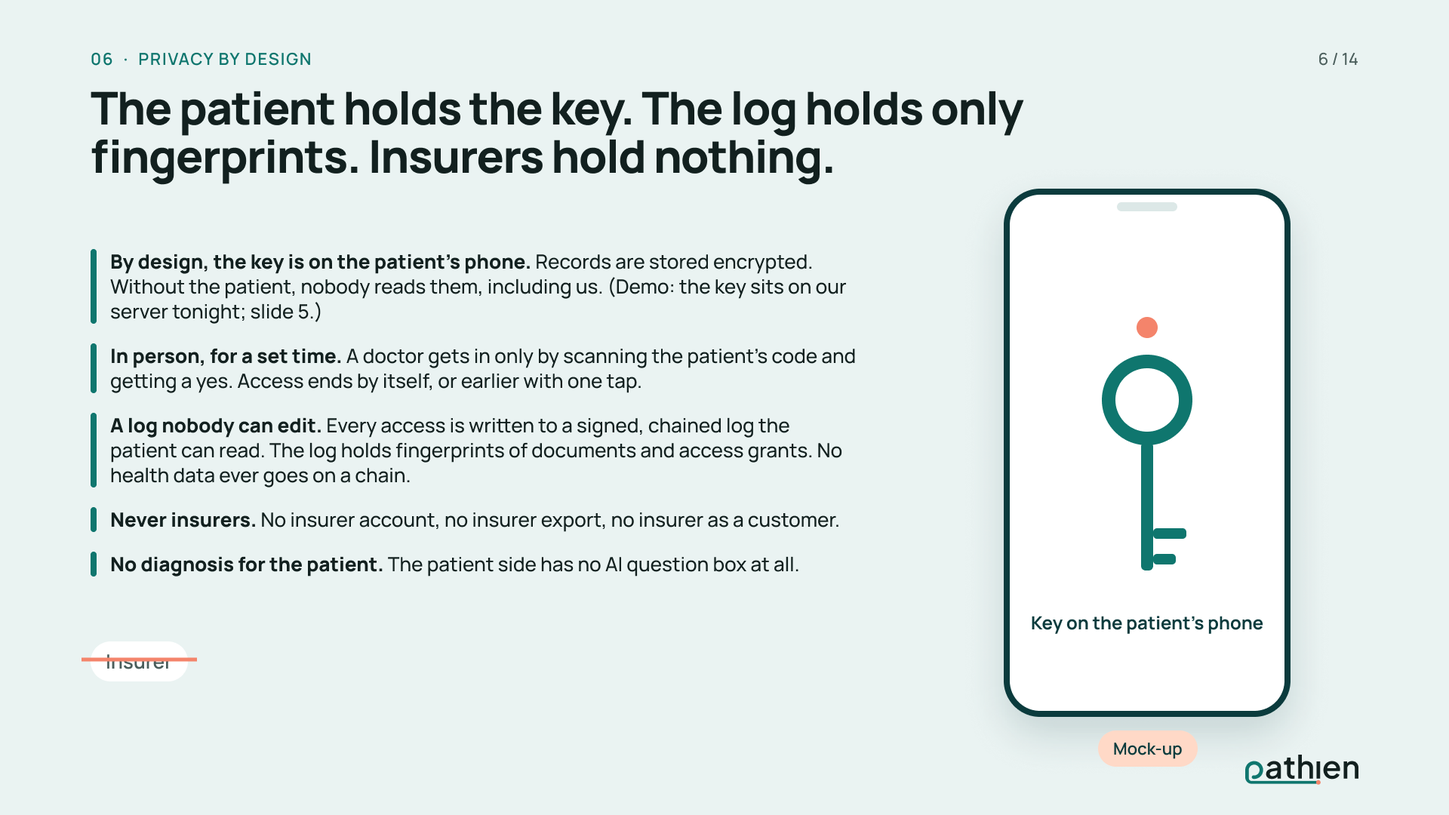
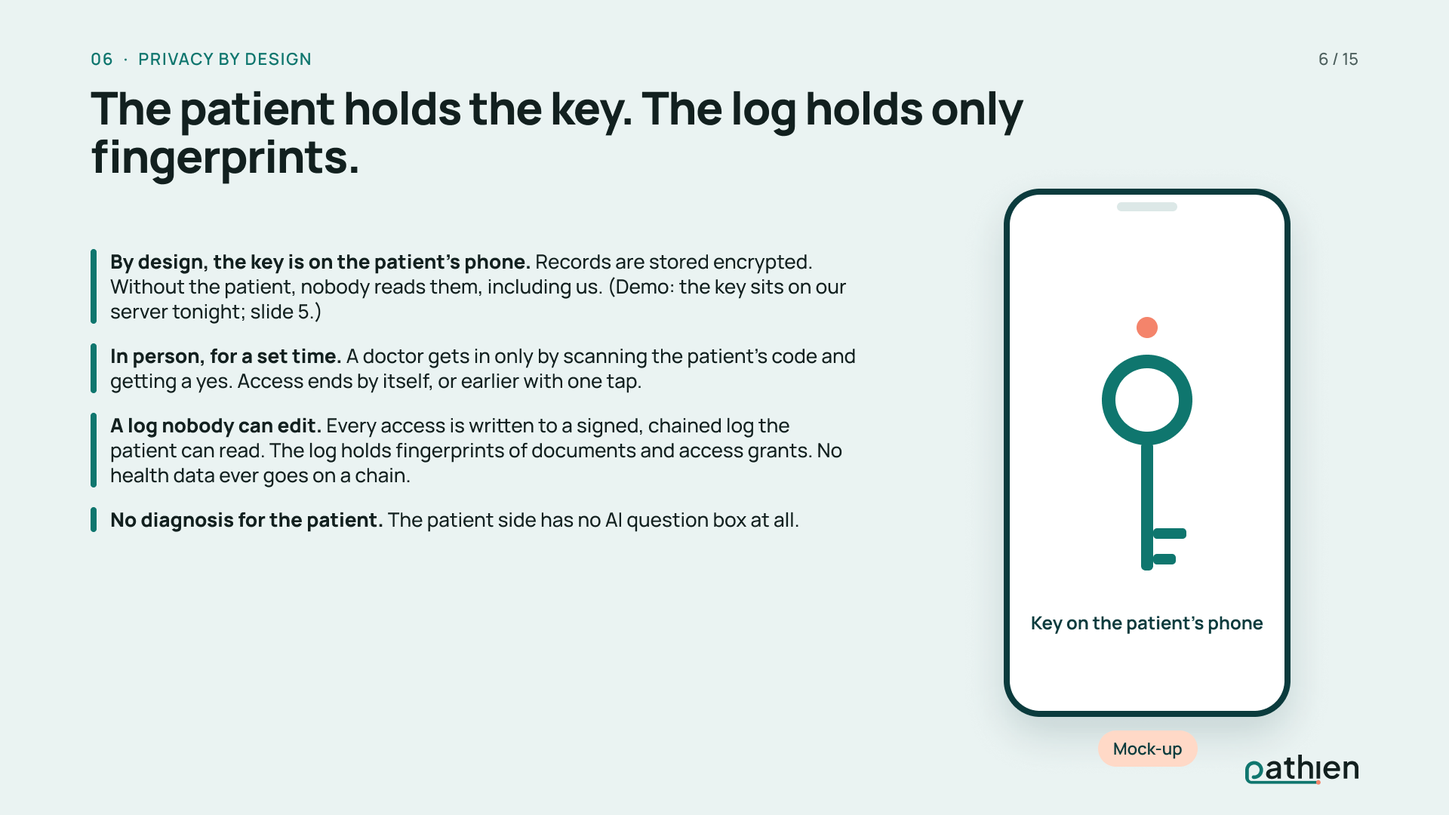
fix(landing,deck): drop every insurer mention (MIN-4503, MIN-4462) [Lane A] (#75)
* fix(landing,deck): drop every insurer mention (deck v3.4)

Refs MIN-4503, MIN-4462

* docs(deck): re-shot Figma slides 6, 10, 11, 13 without insurer mentions

Pix's re-shot slide images for deck v3.4. Refs MIN-4503, MIN-4462.

---------

diff --git a/landing/src/deck/slides.ts b/landing/src/deck/slides.ts
@@ -22,7 +22,7 @@ const N: Record<string, string[]> = {
     "(Run the demo. If a step fails, switch to the screenshot version and narrate it; do not retry on stage.)"
   ],
   "6": [
-    "We designed privacy in from the first line. The key lives on the patient's device. A doctor gets in only face to face, only with a yes, and only for a set time. Every access goes into a log the patient can read and nobody can edit; the log holds fingerprints, never health data. And insurers never get in. Not as readers, not as buyers. That is a product rule, not a setting."
+    "We designed privacy in from the first line. The key lives on the patient's device. A doctor gets in only face to face, only with a yes, and only for a set time. Every access goes into a log the patient can read and nobody can edit; the log holds fingerprints, never health data. Those are product rules, not settings."
   ],
   "6b": [
     "Some people will not want their record on anyone's server, ours included. For them we are designing Pathien Vault: a small device they buy once, holding the whole record at home. The doctor still gets in by the code, for a set time. Pathien's own encryption runs on the device, so nothing sits in the cloud. It is a concept, not built yet, and an option, not the business."
@@ -37,7 +37,7 @@ const N: Record<string, string[]> = {
     "Epic summarises what is inside one hospital. National apps like MyHealth hold public lab results inside one country, and we complement them. ChatGPT Health and symptom checkers talk to the patient, from whatever the patient types in. OpenEvidence answers doctors from the literature, not from this patient. We sit where none of them sits: the record the patient carries across every provider and border, with an assistant that answers only the doctor, and shows its source."
   ],
   "10": [
-    "The patient is free. Insurers are excluded, by design. The first buyer is the hospital that treats patients from abroad: their records arrive in other languages, on paper, or not at all, and the hospital already asks for them before the trip. Clinic chains pay per doctor seat. Rare-disease networks are our free pilots. Later, national agencies. Research use, if ever, is opt-in and never a data sale."
+    "The patient is free. The first buyer is the hospital that treats patients from abroad: their records arrive in other languages, on paper, or not at all, and the hospital already asks for them before the trip. Clinic chains pay per doctor seat. Rare-disease networks are our free pilots. Later, national agencies. Research use, if ever, is opt-in and never a data sale."
   ],
   "11": [
     "How do we earn? Not from diagnoses: we never make one. Hospitals pay for the complete history in front of their doctors. An international-patient department pays per case; a clinic chain pays per doctor seat. On our assumptions, year three is between about half a million and five million euros. Compare that with slide 8: better records could save four to seventy-five million a year on tests, in Greece alone. Our customers pay a small share of what the system saves. Every price here is an assumption, and the pilots exist to test it."
@@ -169,16 +169,15 @@ export const slides: Slide[] = [
   },
   {
     id: '6', template: 'statement', theme: 'mist', no: '06', kicker: 'Privacy by design', notes: N['6'],
-    headline: 'The patient holds the key. The log holds only fingerprints. Insurers hold nothing.',
+    headline: 'The patient holds the key. The log holds only fingerprints.',
     pointStyle: 'bar',
     points: [
       { text: "**By design, the key is on the patient's phone.** Records are stored encrypted. Without the patient, nobody reads them, including us. (Demo: the key sits on our server tonight; slide 5.)" },
       { text: "**In person, for a set time.** A doctor gets in only by scanning the patient's code and getting a yes. Access ends by itself, or earlier with one tap." },
       { text: '**A log nobody can edit.** Every access is written to a signed, chained log the patient can read. The log holds fingerprints of documents and access grants. No health data ever goes on a chain.' },
-      { text: '**Never insurers.** No insurer account, no insurer export, no insurer as a customer.' },
       { text: '**No diagnosis for the patient.** The patient side has no AI question box at all.' },
     ],
-    side: { kind: 'phone', caption: "Key on the patient's phone", tag: 'Mock-up', crossed: 'Insurer' },
+    side: { kind: 'phone', caption: "Key on the patient's phone", tag: 'Mock-up' },
   },
   {
     id: '6b', counter: '6b', template: 'hero', theme: 'air', kicker: 'Concept · not built', notes: N['6b'],
@@ -251,7 +250,7 @@ export const slides: Slide[] = [
   {
     id: '10', template: 'table', theme: 'air', no: '10', kicker: 'Business model, who pays', notes: N['10'],
     footer: 'Models are hypotheses for pilots to test. Prices and volumes on slide 11 are assumptions.',
-    headline: 'The patient never pays. The insurer never sees. Hospitals pay for a better first decision and fewer repeated tests.',
+    headline: 'The patient never pays. Hospitals pay for a better first decision and fewer repeated tests.',
     cols: '170px 520px 600px 1fr',
     head: ['When', 'Who pays', 'For what', 'Model (to test in pilots)'],
     rows: [
@@ -260,7 +259,6 @@ export const slides: Slide[] = [
       { cells: ['Year 1', '**Rare-disease networks**', 'A pilot where possible matches matter most', '**Free pilot, grant-funded**'] },
       { cells: ['Year 1', '**Lab networks**', 'Results the patient carries, marked "Verified by source"', '**Partnership**'] },
       { cells: ['Year 2+', '**National health-data agencies**', 'A patient-held layer next to the national record', '**Tender, sandbox**'] },
-      { cells: ['Never', 'Insurers', '', 'Excluded by design'], emphasis: 'muted' },
     ],
   },
   {
@@ -285,7 +283,7 @@ export const slides: Slide[] = [
         { number: '€0.56M', label: 'conservative · assumption' },
         { number: '€4.85M', label: 'upside · assumption' },
       ],
-      note: 'Not counted: rare-disease pilots (free, grant-funded), national agencies (tenders, year 2+), research use (later, consent-gated, never a data sale), insurers (never).',
+      note: 'Not counted: rare-disease pilots (free, grant-funded), national agencies (tenders, year 2+), research use (later, consent-gated, never a data sale).',
     },
     strip: [
       { caption: 'Tests, Greece (slide 8 funnel)', value: '€4M to €75M a year', tag: 'our estimate' },
@@ -318,7 +316,7 @@ export const slides: Slide[] = [
   },
   {
     id: '13', template: 'steps', variant: 'ascend', theme: 'air', no: '13', kicker: 'Regulatory path', notes: N['13'],
-    footer: 'Every step keeps the same rules: no diagnosis to patients, no health data on a chain, no insurers.',
+    footer: 'Every step keeps the same rules: no diagnosis to patients, no health data on a chain.',
     headline: 'The record ships first. The assistant ships certified. A plan, not a risk.',
     steps: [
       { title: '1. The record', ships: 'Photo to history, identity match, handshake, cited search, symptom diary', applies: '**GDPR** (EU) and **HIPAA** (US): health data, explicit consent, impact assessment. Software that only stores, retrieves and shares is generally not a medical device.', badges: ['GDPR', 'HIPAA'] },

diff --git a/landing/src/App.tsx b/landing/src/App.tsx
@@ -30,7 +30,7 @@ const tech = [
   ['Access that expires.', 'Time-limited access is enforced in the database.'],
   ['A log you can read.', 'Signed, hash-chained, and readable by the patient.']
 ];
-const promises = ['Answers are cited and checked.', 'No AI interpretation for patients.', 'You see every access.', 'Insurers never see records.'];
+const promises = ['Answers are cited and checked.', 'No AI interpretation for patients.', 'You see every access.'];
 const future = ['the key on your phone, so we cannot read records at rest.', "the model sees one request's facts, without your name.", 'records verified by the lab that issued them.'];
 
 const Check = () => (

diff --git a/landing/src/deck/types.ts b/landing/src/deck/types.ts
@@ -73,7 +73,7 @@ export type StatementSide =
       clock: { when: string; what: string }[];
     }
   | { kind: 'notice'; tag: DemoTag; blocks: { label: string; text: string }[] }
-  | { kind: 'phone'; caption: string; tag: DemoTag; crossed: string }
+  | { kind: 'phone'; caption: string; tag: DemoTag; crossed?: string }
   | { kind: 'matches'; pattern: { title: string; sub: string }; optIn: string; tag: DemoTag; contact: string };
 
 export interface StatementSlide extends SlideBase {

diff --git a/landing/src/deck/templates/Statement.tsx b/landing/src/deck/templates/Statement.tsx
@@ -58,7 +58,7 @@ function Side({ side, callout }: { side: StatementSide; callout?: StatementSlide
             <p>{rich(side.caption)}</p>
           </div>
           <Tag>{side.tag}</Tag>
-          <span className="crossed-chip">{side.crossed}</span>
+          {side.crossed && <span className="crossed-chip">{side.crossed}</span>}
         </aside>
       );
     case 'matches': {

diff --git a/docs/deck/deck-content.md b/docs/deck/deck-content.md
@@ -3,18 +3,18 @@
 | | |
 |---|---|
 | **Owner** | Anna Lytica (Marketing), MIN-4429. Deck story: CEO (MIN-4425). Design: Pix (MIN-4428), next. |
-| **Version** | **v3.3, 14 Nov 2026** (MIN-4503: slide 6b, the "Concept render" tag removed and the encryption point added; founder: "remove the concept render -> and mention that this device has our own encrypted software for the data so they are not in the cloud"; the eyebrow "Concept · not built" stays). v3.2, 14 Nov 2026 (MIN-4503: new slide 6b, Pathien Vault, a concept device for patients who want maximum privacy; founder: "what if someone that want's his privacy can buy our device that can hold his data. Anna and pix work on this and add one slide with a very super elegant image with our device that looks very premioum"; no other slide renumbered). v3.1, 14 Nov 2026 (MIN-4503: team and ask from the CEO plan v2, `docs/business/team-and-funding-plan.md` §7; slide 14 replaced, slide 15 new; founder: "put it in the deck when ready"). v3, 14 Nov 2026 (MIN-4503: name Pathien; new slide 11, revenue years 1 to 3, on the founder's ask "the numbers of how many money we can earn" and "Yes, update to v3"; Appendix A's SOM retired for the bottom-up line; demo slides say what is real and what is synthetic). v2, 14 Nov 2026 (MIN-4503: reframed on the founder's two points, "Dr Google" and better doctor decisions; numbers from `pitch-numbers-2026-11-14.md` and `treg-findings-2026-11-14.md`). v1, 13 Nov 2026. |
+| **Version** | **v3.4, 14 Nov 2026** (MIN-4462: every insurer mention removed from slides 6, 6b, 10, 11, 13 and both scripts; founder: "remove the never insurers -> not sure about this", then "Drop every insurer mention"; the internal data rule is unchanged). v3.3, 14 Nov 2026 (MIN-4503: slide 6b, the "Concept render" tag removed and the encryption point added; founder: "remove the concept render -> and mention that this device has our own encrypted software for the data so they are not in the cloud"; the eyebrow "Concept · not built" stays). v3.2, 14 Nov 2026 (MIN-4503: new slide 6b, Pathien Vault, a concept device for patients who want maximum privacy; founder: "what if someone that want's his privacy can buy our device that can hold his data. Anna and pix work on this and add one slide with a very super elegant image with our device that looks very premioum"; no other slide renumbered). v3.1, 14 Nov 2026 (MIN-4503: team and ask from the CEO plan v2, `docs/business/team-and-funding-plan.md` §7; slide 14 replaced, slide 15 new; founder: "put it in the deck when ready"). v3, 14 Nov 2026 (MIN-4503: name Pathien; new slide 11, revenue years 1 to 3, on the founder's ask "the numbers of how many money we can earn" and "Yes, update to v3"; Appendix A's SOM retired for the bottom-up line; demo slides say what is real and what is synthetic). v2, 14 Nov 2026 (MIN-4503: reframed on the founder's two points, "Dr Google" and better doctor decisions; numbers from `pitch-numbers-2026-11-14.md` and `treg-findings-2026-11-14.md`). v1, 13 Nov 2026. |
 | **Event** | Gen AI Summit Hackathon, Athens LifeTech Park, Biotech & AI track |
 | **Market** | Global. Founder: "Dont focus on the greek market. we need to focus on global market" |
 | **Sources** | Only `docs/research/` (Sales). Each number carries a source ID from the table at the end (S1 to S22; S21 and S22, added in v3.2, are retail price anchors for slide 6b found by Marketing, not by Sales) and its status from the research: **verified**, **secondary**, or **assumption**. Nothing from the research's "Do not put on a slide" list is used. |
-| **Skills** | c-level-skills:board-deck-builder, marketing-strategy-pmm, copywriting, copy-editing, content-humanizer, competitor-alternatives (v1); marketing-strategy-pmm, copywriting, copy-editing, content-humanizer, brand-review (v2); marketing-strategy-pmm, copywriting, copy-editing, content-humanizer (v3); marketing-strategy-pmm, copywriting, copy-editing, brand-review (v3.1); marketing-strategy-pmm, copywriting, copy-editing, content-humanizer, brand-review (v3.2) |
+| **Skills** | c-level-skills:board-deck-builder, marketing-strategy-pmm, copywriting, copy-editing, content-humanizer, competitor-alternatives (v1); marketing-strategy-pmm, copywriting, copy-editing, content-humanizer, brand-review (v2); marketing-strategy-pmm, copywriting, copy-editing, content-humanizer (v3); marketing-strategy-pmm, copywriting, copy-editing, brand-review (v3.1); marketing-strategy-pmm, copywriting, copy-editing, content-humanizer, brand-review (v3.2); marketing-strategy-pmm, copywriting, copy-editing, brand-review, content-humanizer (v3.4) |
 
 **Rules this deck keeps (check them again after any edit):**
 
 1. The patient side never diagnoses. The words "diagnosis" or "diagnose" never describe what the app does for a patient. Only the doctor sees possibilities, and they are labelled "for the doctor to evaluate".
 2. No data is sold. Possible matches are opt-in, unnamed, and can be withdrawn. Research use is "later, consent-gated", never a revenue line called data.
 3. No health data on any blockchain. We say "signed log of fingerprints and access grants".
-4. Insurers: never a buyer, never a reader.
+4. Insurers are not mentioned on any slide (founder, 14 Nov). Internal data rule unchanged: insurers never see records.
 5. Pilot names are **targets. Nobody has been contacted.** The slide says so.
 6. The product is **Pathien** (founder, 14 Nov 2026). Trademark clearance is pending, so no ™ or ® on any slide (section "Name").
 7. **Revenue is never framed as earning from diagnoses.** Hospitals and clinics pay per case or per seat for the complete, cited history, which leads to better first decisions and fewer repeated tests. Words to avoid on slide 11 and in the scripts: "diagnosis revenue", "paid per diagnosis", "we earn from better diagnoses".
@@ -22,7 +22,7 @@
 
 **Story (v2, founder 14 Nov):** "help people get rid of their 'google is my doctor' habit" and "save the industry lots of money by helping doctors make the best decisions". Digitising paper is the means, never the headline. The national file (Greece's MyHealth) is a neighbour, not a rival: we carry what it does not hold.
 
-**Brand note for Pix (v3):** The product is **Pathien**. Logo: the "p" is the symbol; its foot becomes a path that runs under the whole word and ends in one coral dot, where the dotless "i"'s dot would be. The path leads to the patient. Use `docs/brand/logo/pathien-lockup.svg` on light slides and `pathien-lockup-white.svg` on teal-night; never retype the wordmark (it is outlined Plus Jakarta Sans; slide type is Manrope). Colours and tokens: `docs/brand/brand-guidelines.md` and `docs/brand/tokens.css`. Coral is fill only. No red anywhere, including the "Never: Insurers" row and the revenue slide. No ™ or ® until the trademark check clears.
+**Brand note for Pix (v3):** The product is **Pathien**. Logo: the "p" is the symbol; its foot becomes a path that runs under the whole word and ends in one coral dot, where the dotless "i"'s dot would be. The path leads to the patient. Use `docs/brand/logo/pathien-lockup.svg` on light slides and `pathien-lockup-white.svg` on teal-night; never retype the wordmark (it is outlined Plus Jakarta Sans; slide type is Manrope). Colours and tokens: `docs/brand/brand-guidelines.md` and `docs/brand/tokens.css`. Coral is fill only. No red anywhere, including the revenue slide. No ™ or ® until the trademark check clears.
 
 **Arc (16 slides + 1 backup):** story → problem → why now → product → live demo → privacy → **the Vault, a concept for maximum privacy (slide 6b, new in v3.2)** → possible matches → impact → competition → who pays → **what we can earn (new in v3)** → go-to-market → **regulatory path (the closing content slide, founder: "We need to add it at a pitching deck as something at the end")** → **team today and what I ask** → **why: four people and a research partner (new in v3.1)**. Backup: Appendix A, market sizing.
 
@@ -134,20 +134,19 @@ Footer: Synthetic patient. Synthetic exams. No real health data.
 
 ## Slide 6: Privacy by design
 
-**Headline:** The patient holds the key. The log holds only fingerprints. Insurers hold nothing.
+**Headline:** The patient holds the key. The log holds only fingerprints.
 
 **Body:**
 - **By design, the key is on the patient's phone.** Records are stored encrypted. Without the patient, nobody reads them, including us. *(Demo: the key sits on our server tonight; slide 5.)*
 - **In person, for a set time.** A doctor gets in only by scanning the patient's code and getting a yes. Access ends by itself, or earlier with one tap.
 - **A log nobody can edit.** Every access is written to a signed, chained log the patient can read. The log holds fingerprints of documents and access grants. No health data ever goes on a chain.
-- **Never insurers.** No insurer account, no insurer export, no insurer as a customer.
 - **No diagnosis for the patient.** The patient side has no AI question box at all.
 
-**Visual note for Pix:** Centre: the patient's phone with a key icon. Around it, four short labels. One crossed-out icon for "Insurer". Keep it calm and plain; no padlock clip-art walls.
+**Visual note for Pix:** Centre: the patient's phone with a key icon. Around it, four short labels. Keep it calm and plain; no padlock clip-art walls.
 
-**Speaker notes (~30 s):** "We designed privacy in from the first line. The key lives on the patient's device. A doctor gets in only face to face, only with a yes, and only for a set time. Every access goes into a log the patient can read and nobody can edit; the log holds fingerprints, never health data. And insurers never get in. Not as readers, not as buyers. That is a product rule, not a setting."
+**Speaker notes (~30 s):** "We designed privacy in from the first line. The key lives on the patient's device. A doctor gets in only face to face, only with a yes, and only for a set time. Every access goes into a log the patient can read and nobody can edit; the log holds fingerprints, never health data. Those are product rules, not settings."
 
-**Sources:** `PRD.md` section 7 (principles P1 to P10). Q23 answered by `docs/submission/project-details.md` (S20): the signed log, the time-limited access, the no-insurer rule and the patient-side refusal run for real; the key on the phone is the design and sits on our server in the demo, so that line says "by design".
+**Sources:** `PRD.md` section 7 (principles P1 to P10). Q23 answered by `docs/submission/project-details.md` (S20): the signed log, the time-limited access and the patient-side refusal run for real; the key on the phone is the design and sits on our server in the demo, so that line says "by design".
 
 ---
 
@@ -192,7 +191,7 @@ The founder asked for it (14 Nov 2026, verbatim): *"what if someone that want's 
 
 **Price, as an assumption.** About **€249 once** for the device, plus an optional encrypted-backup subscription at a price we have not set. Anchors (secondary, retail listings, Nov 2026): a hardware wallet that holds only keys sells for about $99 to $149 (Ledger Nano X); a two-bay personal storage box sells for about €300 to €415 without disks (Synology DS224+). The Vault holds more than a key and less than a home server, so it sits between them. No revenue line: this is an option for a privacy-first segment, not part of slide 11.
 
-**Sources:** S21 (Ledger Nano X retail prices, secondary); S22 (Synology DS224+ retail prices, secondary). Founder's words above. Rules 1, 3, 4 and 8 kept: no diagnosis, nothing on a chain, no insurers, the concept labelled.
+**Sources:** S21 (Ledger Nano X retail prices, secondary); S22 (Synology DS224+ retail prices, secondary). Founder's words above. Rules 1, 3 and 8 kept: no diagnosis, nothing on a chain, the concept labelled.
 
 ---
 
@@ -270,7 +269,7 @@ Formula for questions (do not read out): savings a year = cost base × share avo
 
 ## Slide 10: Business model, who pays
 
-**Headline:** The patient never pays. The insurer never sees. Hospitals pay for a better first decision and fewer repeated tests.
+**Headline:** The patient never pays. Hospitals pay for a better first decision and fewer repeated tests.
 
 **Body:**
 
@@ -281,13 +280,12 @@ Formula for questions (do not read out): savings a year = cost base × share avo
 | Year 1 | Rare-disease networks | A pilot where possible matches matter most | Free pilot, grant-funded |
 | Year 1 | Lab networks | Results the patient carries, marked "Verified by source" | Partnership |
 | Year 2+ | National health-data agencies | A patient-held layer next to the national record | Tender, sandbox |
-| **Never** | **Insurers** | | **Excluded by design** |
 
 Footer: Models are hypotheses for pilots to test. Prices and volumes on slide 11 are assumptions.
 
-**Visual note for Pix:** Simple table, the "Never: Insurers" row visually separated (a rule above it, muted colour). The first row gets the accent: it is the wedge.
+**Visual note for Pix:** Simple table. The first row gets the accent: it is the wedge.
 
-**Speaker notes (~25 s):** "The patient is free. Insurers are excluded, by design. The first buyer is the hospital that treats patients from abroad: their records arrive in other languages, on paper, or not at all, and the hospital already asks for them before the trip. Clinic chains pay per doctor seat. Rare-disease networks are our free pilots. Later, national agencies. Research use, if ever, is opt-in and never a data sale."
+**Speaker notes (~25 s):** "The patient is free. The first buyer is the hospital that treats patients from abroad: their records arrive in other languages, on paper, or not at all, and the hospital already asks for them before the trip. Clinic chains pay per doctor seat. Rare-disease networks are our free pilots. Later, national agencies. Research use, if ever, is opt-in and never a data sale."
 
 **Sources:** `buyers.md` §1 and §5. Grants for rare-disease pilots and tenders with national agencies are not counted as revenue on slide 11.
 
@@ -324,7 +322,7 @@ The founder asked for it on the main deck (14 Nov 2026): *"let's see the pitchin
 
 **"A fraction of what they save", the arithmetic** *(our estimate, shown small on the slide)*: slide 8 says better records could save **€4M (conservative) to €75M (upside) a year on tests, in Greece alone**. Our year-3 revenue from every customer in every country is **€0.56M to €4.85M**: about **14%** of the conservative saving and about **6%** of the upside one. Savings outside Greece and the savings on diagnostic error itself are not counted, so the real ratio is smaller.
 
-Not counted: rare-disease pilots (free, grant-funded), national agencies (tenders, year 2+), research use (later, consent-gated, never a data sale), insurers (never).
+Not counted: rare-disease pilots (free, grant-funded), national agencies (tenders, year 2+), research use (later, consent-gated, never a data sale).
 
 Footer, required: Our estimate. Every price, customer count and volume is an assumption for the pilots to test. Not a forecast. We never earn from a diagnosis: Pathien never makes one.
 
@@ -376,7 +374,7 @@ Footer, required: Named organisations are targets from public research. None has
 | **2. The network** | Opt-in possible matches, doctor-to-doctor contact | **GDPR** explicit consent. **EHDS** gives the lawful route for research use. Our rule is stricter: opt-in only. |
 | **3. Decision support** | "Possibilities for the doctor to evaluate" | **EU MDR**: medical-device software, certified with a notified body. **EU AI Act**: high-risk obligations follow. **US FDA**: clinical decision-support guidance. |
 
-Footer: Every step keeps the same rules: no diagnosis to patients, no health data on a chain, no insurers.
+Footer: Every step keeps the same rules: no diagnosis to patients, no health data on a chain.
 
 **Visual note for Pix:** Three ascending steps, left to right, each with its "ships" line and its law badges (GDPR, HIPAA, EHDS, MDR, AI Act, FDA). Step 3 carries a small "certification" seal outline. Calm, confident; not a warning slide, no red.
 
@@ -501,7 +499,7 @@ The v2 name proposals (Anamna, Strand, Histra) are retired; their reasoning stay
 >
 > *(Demo, about 60 seconds.)* Maria photographs a blood test: date, lab, every value with its range. She tries to add her husband's exam: refused, not her name. At the orthopaedist she shows this DNA code, he scans, she approves, and a timer starts. He asks: "Has her CRP been raised before?" Dates, values, and each one links to the exam it came from. He asks for possibilities, and the assistant puts the orthopaedic and the rheumatology findings side by side, each with its source, for the doctor to evaluate. Time ends, his screen closes, and Maria sees who looked.
 >
-> Three rules hold everywhere. The patient holds the key. The patient never gets a diagnosis from us. Insurers never see a thing.
+> Two rules hold everywhere. The patient holds the key. The patient never gets a diagnosis from us.
 >
 > Why it matters: the OECD puts the cost of diagnostic error at 17.5 percent of health spending. In Greece that is about three and a half billion euros a year. We start with the smallest slice, repeated and unnecessary tests: on our estimate, 4 to 75 million euros a year in Greece alone, depending on adoption.
 >
@@ -515,7 +513,7 @@ The v2 name proposals (Anamna, Strand, Histra) are retired; their reasoning stay
 
 ## Pitch script: 30 seconds (about 90 words)
 
-> Up to 15 percent of diagnoses are wrong or late, and half of us ask Google before a doctor. Both happen because the history never reaches one desk. Pathien puts it there: the patient adds every exam once, and lets a doctor in by a DNA-shaped handshake. The doctor asks, and every answer shows its source. Patients never get a diagnosis from us. Insurers never see it. Hospitals pay per case or per seat, a small share of what better first decisions save: in Greece, diagnostic error costs about €3.5bn a year.
+> Up to 15 percent of diagnoses are wrong or late, and half of us ask Google before a doctor. Both happen because the history never reaches one desk. Pathien puts it there: the patient adds every exam once, and lets a doctor in by a DNA-shaped handshake. The doctor asks, and every answer shows its source. Patients never get a diagnosis from us. Hospitals pay per case or per seat, a small share of what better first decisions save: in Greece, diagnostic error costs about €3.5bn a year.
 
 ---
 
@@ -523,7 +521,7 @@ The v2 name proposals (Anamna, Strand, Histra) are retired; their reasoning stay
 
 | # | Question | Owner |
 |---|---|---|
-| Q23 | **Answered** by `docs/submission/project-details.md` (S20): signed log, time-limited access and the no-insurer rule run for real; the key sits on our server in the demo. Slides 5 and 6 updated. | Backend, CTO |
+| Q23 | **Answered** by `docs/submission/project-details.md` (S20): signed log and time-limited access run for real; the key sits on our server in the demo. Slides 5 and 6 updated. | Backend, CTO |
 | Q24 | **Answered for revenue** (founder, 14 Nov, verbatim: "the numbers of how many money we can earn based on good diagnoses?", then "Yes, update to v3"). The revenue line is on the main deck (slide 11), framed per case and per seat, never per diagnosis. SOM retired; TAM and SAM stay in Appendix A as a ceiling, for questions only. Open: whether Appendix A is shown at all. | Founder (revenue); CEO, with Sales (Appendix A) |
 | Q25 | Sheba ARC's reported sale: confirm before slide 12 names it. | Sales |
 | Q26 | **Answered in v3.1** by the CEO plan v2 and the founder's "put it in the deck when ready": slide 13 stays the closing content slide; team and ask follow as slides 14 and 15. | CEO, founder |

diff --git a/docs/submission/pitch-script.md b/docs/submission/pitch-script.md
@@ -28,7 +28,7 @@ Semifinal, about Sun 19:00. Judging: usefulness, craft, aura. Run the live demo;
 ## 2:10 to 2:30. It ends
 
 *Screen: time runs out.*
-"Time ends. The doctor's screen clears in about 3 seconds. Maria's log shows who looked and until when. The log holds fingerprints and access events, never health data. No insurer ever gets in."
+"Time ends. The doctor's screen clears in about 3 seconds. Maria's log shows who looked and until when. The log holds fingerprints and access events, never health data."
 
 ## 2:30 to 3:00. Honest close, who pays, and the ask
 
@@ -38,7 +38,7 @@ Semifinal, about Sun 19:00. Judging: usefulness, craft, aura. Run the live demo;
 
 - Is it a medical device? Possibly, for the doctor-side possibilities. The regulatory path (EU MDR, GDPR, EHDS) is the closing slide of the deck, and nothing is certified.
 - Real patients or pilots? None. Synthetic data, nobody contacted.
-- How do you make money? Hospitals pay per case (international-patient departments, €40 to €80 a case) and clinic chains per doctor seat (€50 a month). Year three: about €0.56M to €4.85M. Every price and volume is an assumption the pilots test; the patient is free; insurers never. We never earn from a diagnosis because we never make one. (Deck slide 11.)
+- How do you make money? Hospitals pay per case (international-patient departments, €40 to €80 a case) and clinic chains per doctor seat (€50 a month). Year three: about €0.56M to €4.85M. Every price and volume is an assumption the pilots test; the patient is free. We never earn from a diagnosis because we never make one. (Deck slide 11.)
 - Is that a fraction of the savings? Slide 8 puts the saving on tests at €4M to €75M a year in Greece alone; our year-3 revenue from every country is about 6 to 14% of it. Our estimate.
 - Who is the team, and what do you ask? Today the founder, Lefteris Georgaras (onedotatatime.design), with AI agents. The ask is €600k over 18 months, our plan: €200k when a hospital agrees a pilot in writing, €400k only when the pilot proves €40 a case or more, 1,000 cases a year or more and €5 cost per case or less. It funds four hires (engineer, ML engineer, business development, marketing) and a research partner, a university hospital and an AI research centre, targets not yet contacted. 28% goes to selling. Nothing is raised before the pilot. (Deck slides 14 and 15.)
 - Blockchain? No. A signed, hash-chained log of fingerprints and grants; health data on a chain would conflict with GDPR erasure.

diff --git a/docs/submission/project-details.md b/docs/submission/project-details.md
@@ -45,7 +45,7 @@ A phone app for the patient and a screen for the doctor.
 
 ## What is real and what is simulated
 
-Real: reading photos into values; the identity match; the time-limited, patient-approved access enforced by the database; the signed log of fingerprints and grants; encryption at rest by the platform; cited answers; no insurer account type, no export; the server refusing interpretation on the patient side.
+Real: reading photos into values; the identity match; the time-limited, patient-approved access enforced by the database; the signed log of fingerprints and grants; encryption at rest by the platform; cited answers; no export; the server refusing interpretation on the patient side.
 
 Simulated or seeded: the encryption key sits on our server, not on the patient's phone (the product design puts it on the phone); the "verified by source" lab is our own demo lab (the signature check itself is real); possible matches come from a seeded synthetic set and doctor-to-doctor contact is simulated; the model provider sees the demo data.
 
@@ -55,7 +55,7 @@ Pilots, partners and regulators: none. Nobody has been contacted.
 
 - The patient side never diagnoses and shows nothing interpretive. There is no AI question box for patients. The only fixed text is: "If this is an emergency, call 112."
 - The doctor's assistant answers only from the patient's record and shows its sources. Any possibilities are for the doctor to evaluate.
-- Insurers never get access, as readers or as buyers. No data is sold.
+- No data is sold.
 - Possible matches are opt-in, off by default, unnamed, and can be withdrawn.
 - Our AI agents never read real patient data.
 

diff --git a/docs/landing/copy.md b/docs/landing/copy.md
@@ -94,7 +94,6 @@ Your health history is scattered across paper, drawers and different doctors' of
 - Answers are cited and checked.
 - No AI interpretation for patients.
 - You see every access.
-- Insurers never see records.
 
 ## roadmap
 
